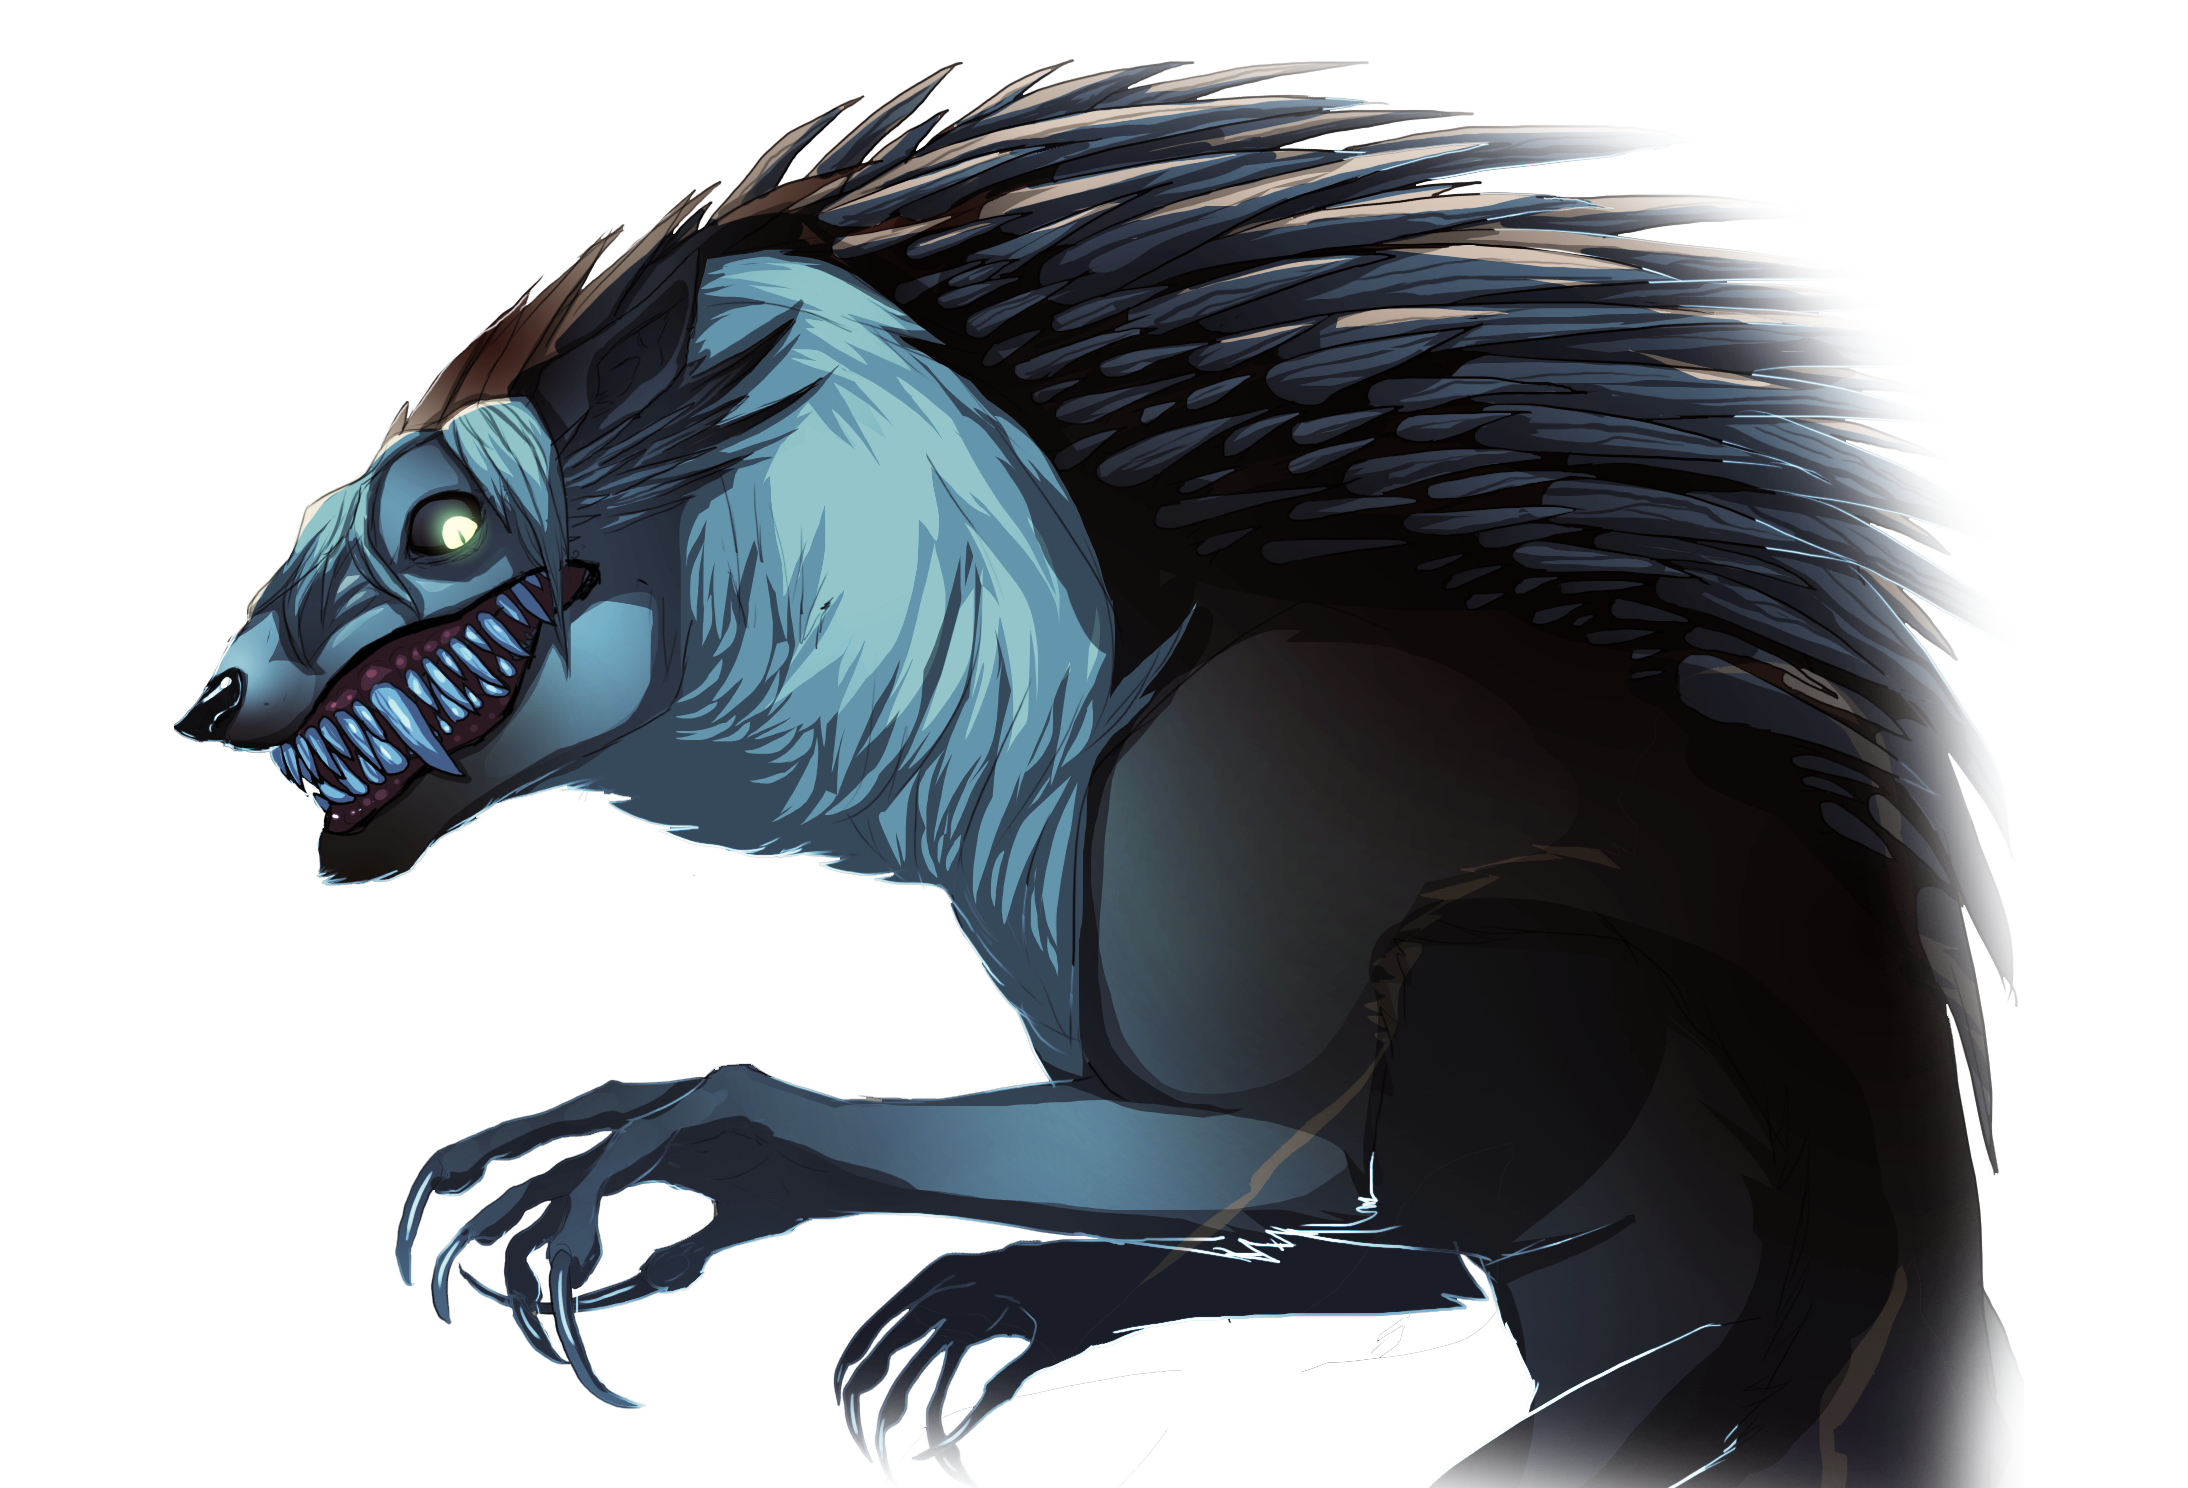
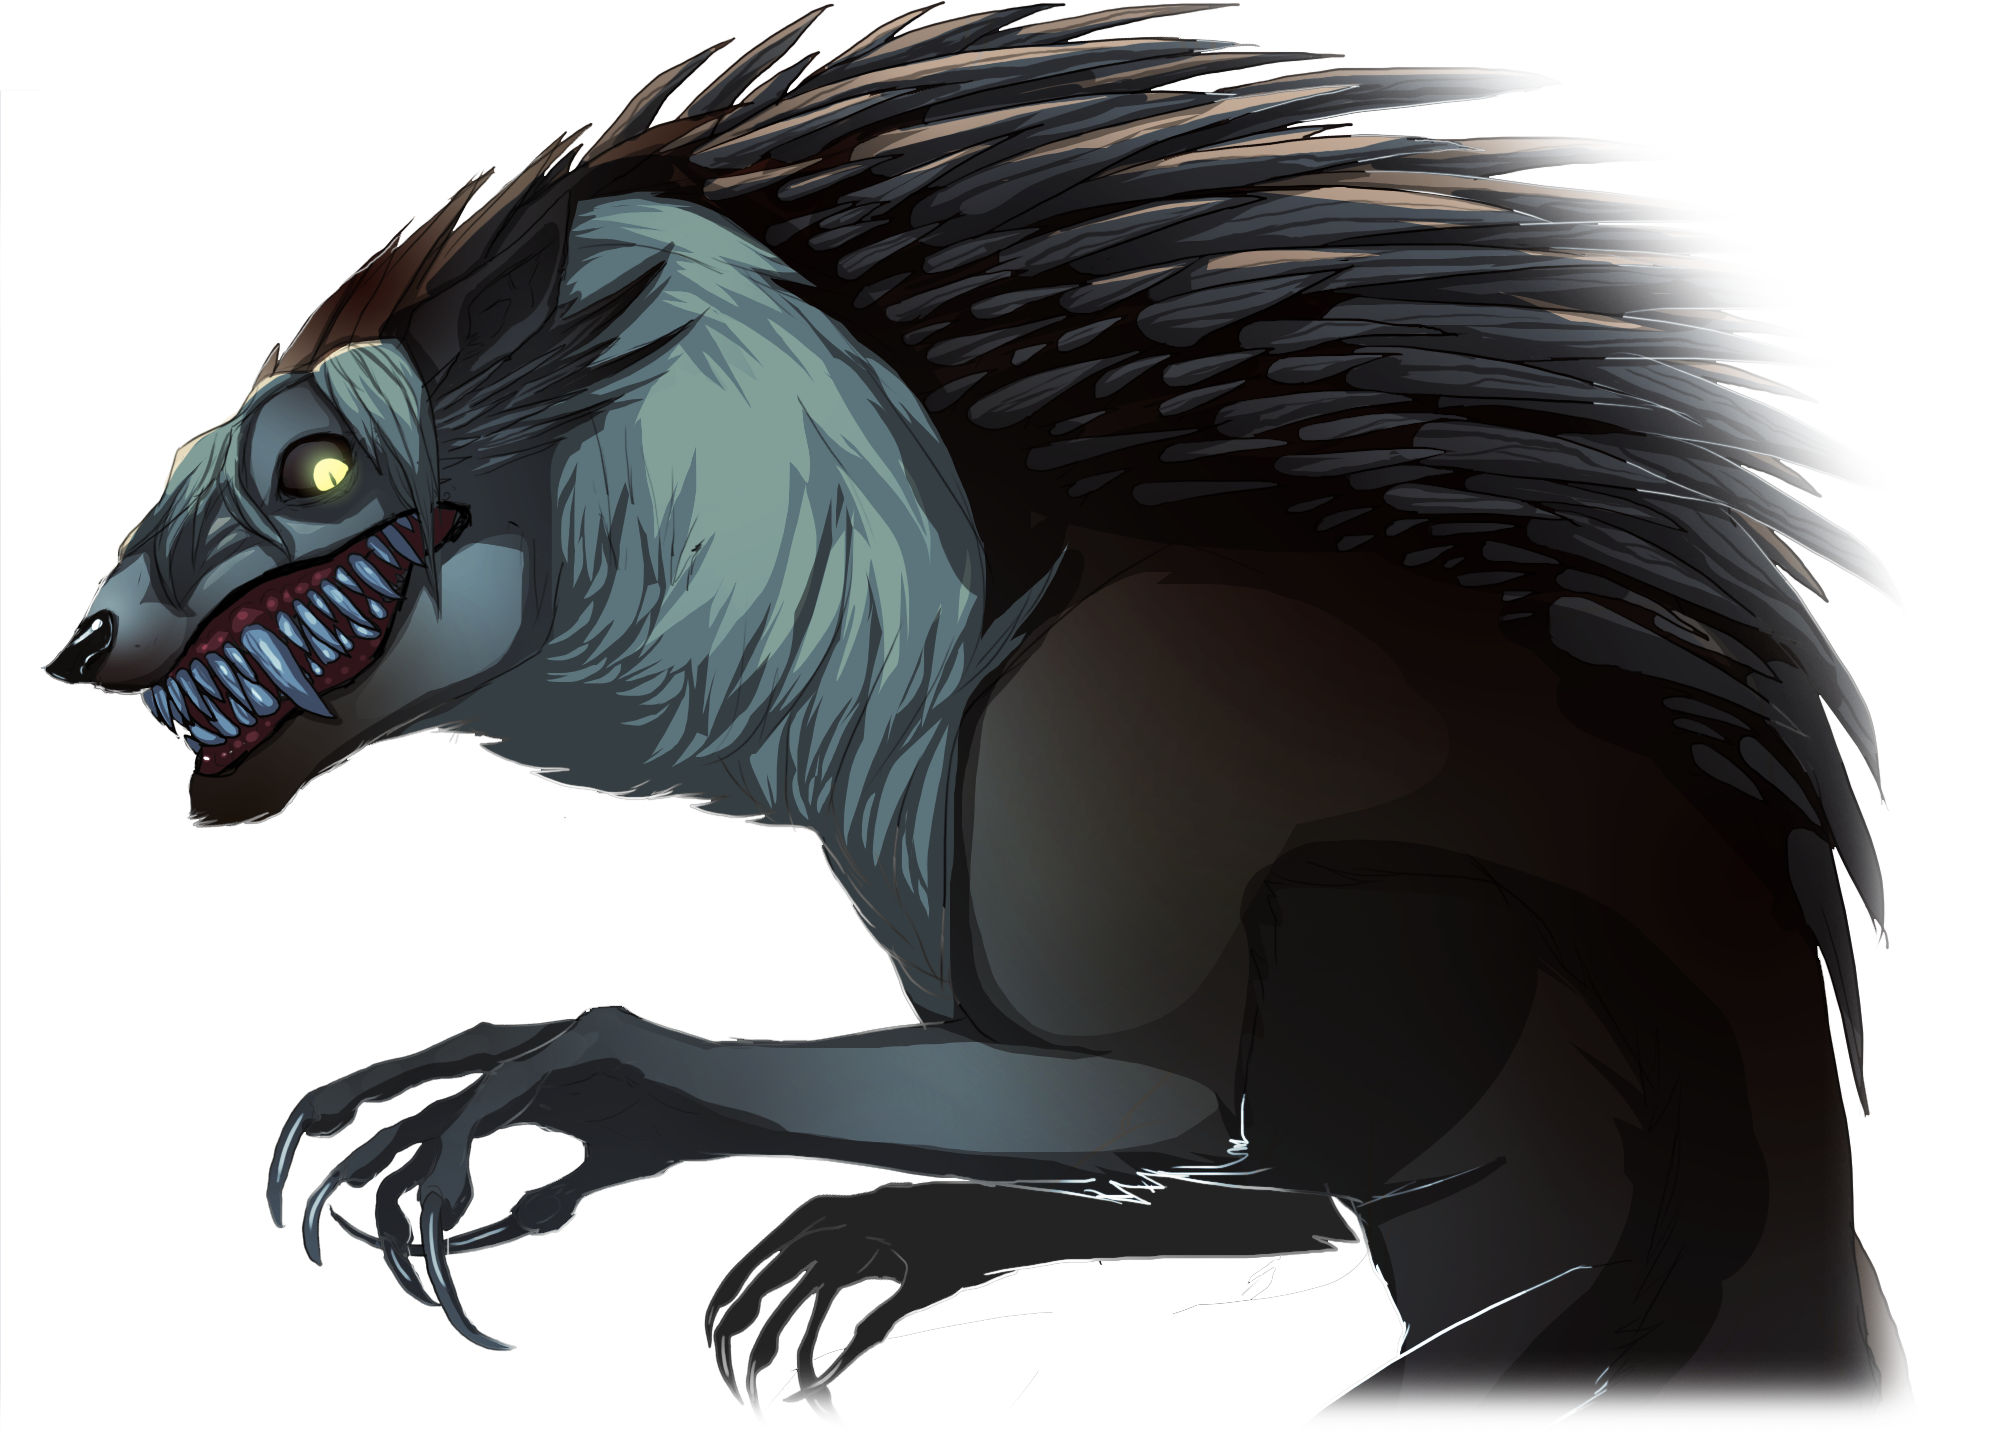
Fix to intent box and enemy3 image

diff --git a/scripts/game.js b/scripts/game.js
@@ -413,8 +413,11 @@ function renderEnergyOrbs() {
 }
 
 function renderIntent() {
+  const intentColor = gs.enemy.intent.type === 'attack' ? '#e05020' : '#5ba3f5';
   document.getElementById('intent-icon').innerHTML = gs.enemy.intent.icon;
   document.getElementById('intent-text').textContent = gs.enemy.intent.text;
+  document.getElementById('intent-text').style.color = intentColor;
+  document.getElementById('intent-box').style.borderColor = intentColor;
 }
 
 function renderHand() {

diff --git a/index.html b/index.html
@@ -194,7 +194,7 @@
           <div class="card-divider"></div>
           <div class="intent-row">
             <span class="intent-label">Next move: </span>
-            <div class="intent-box">
+            <div class="intent-box" id="intent-box">
               <span class="intent-icon" id="intent-icon">
 
               </span>
